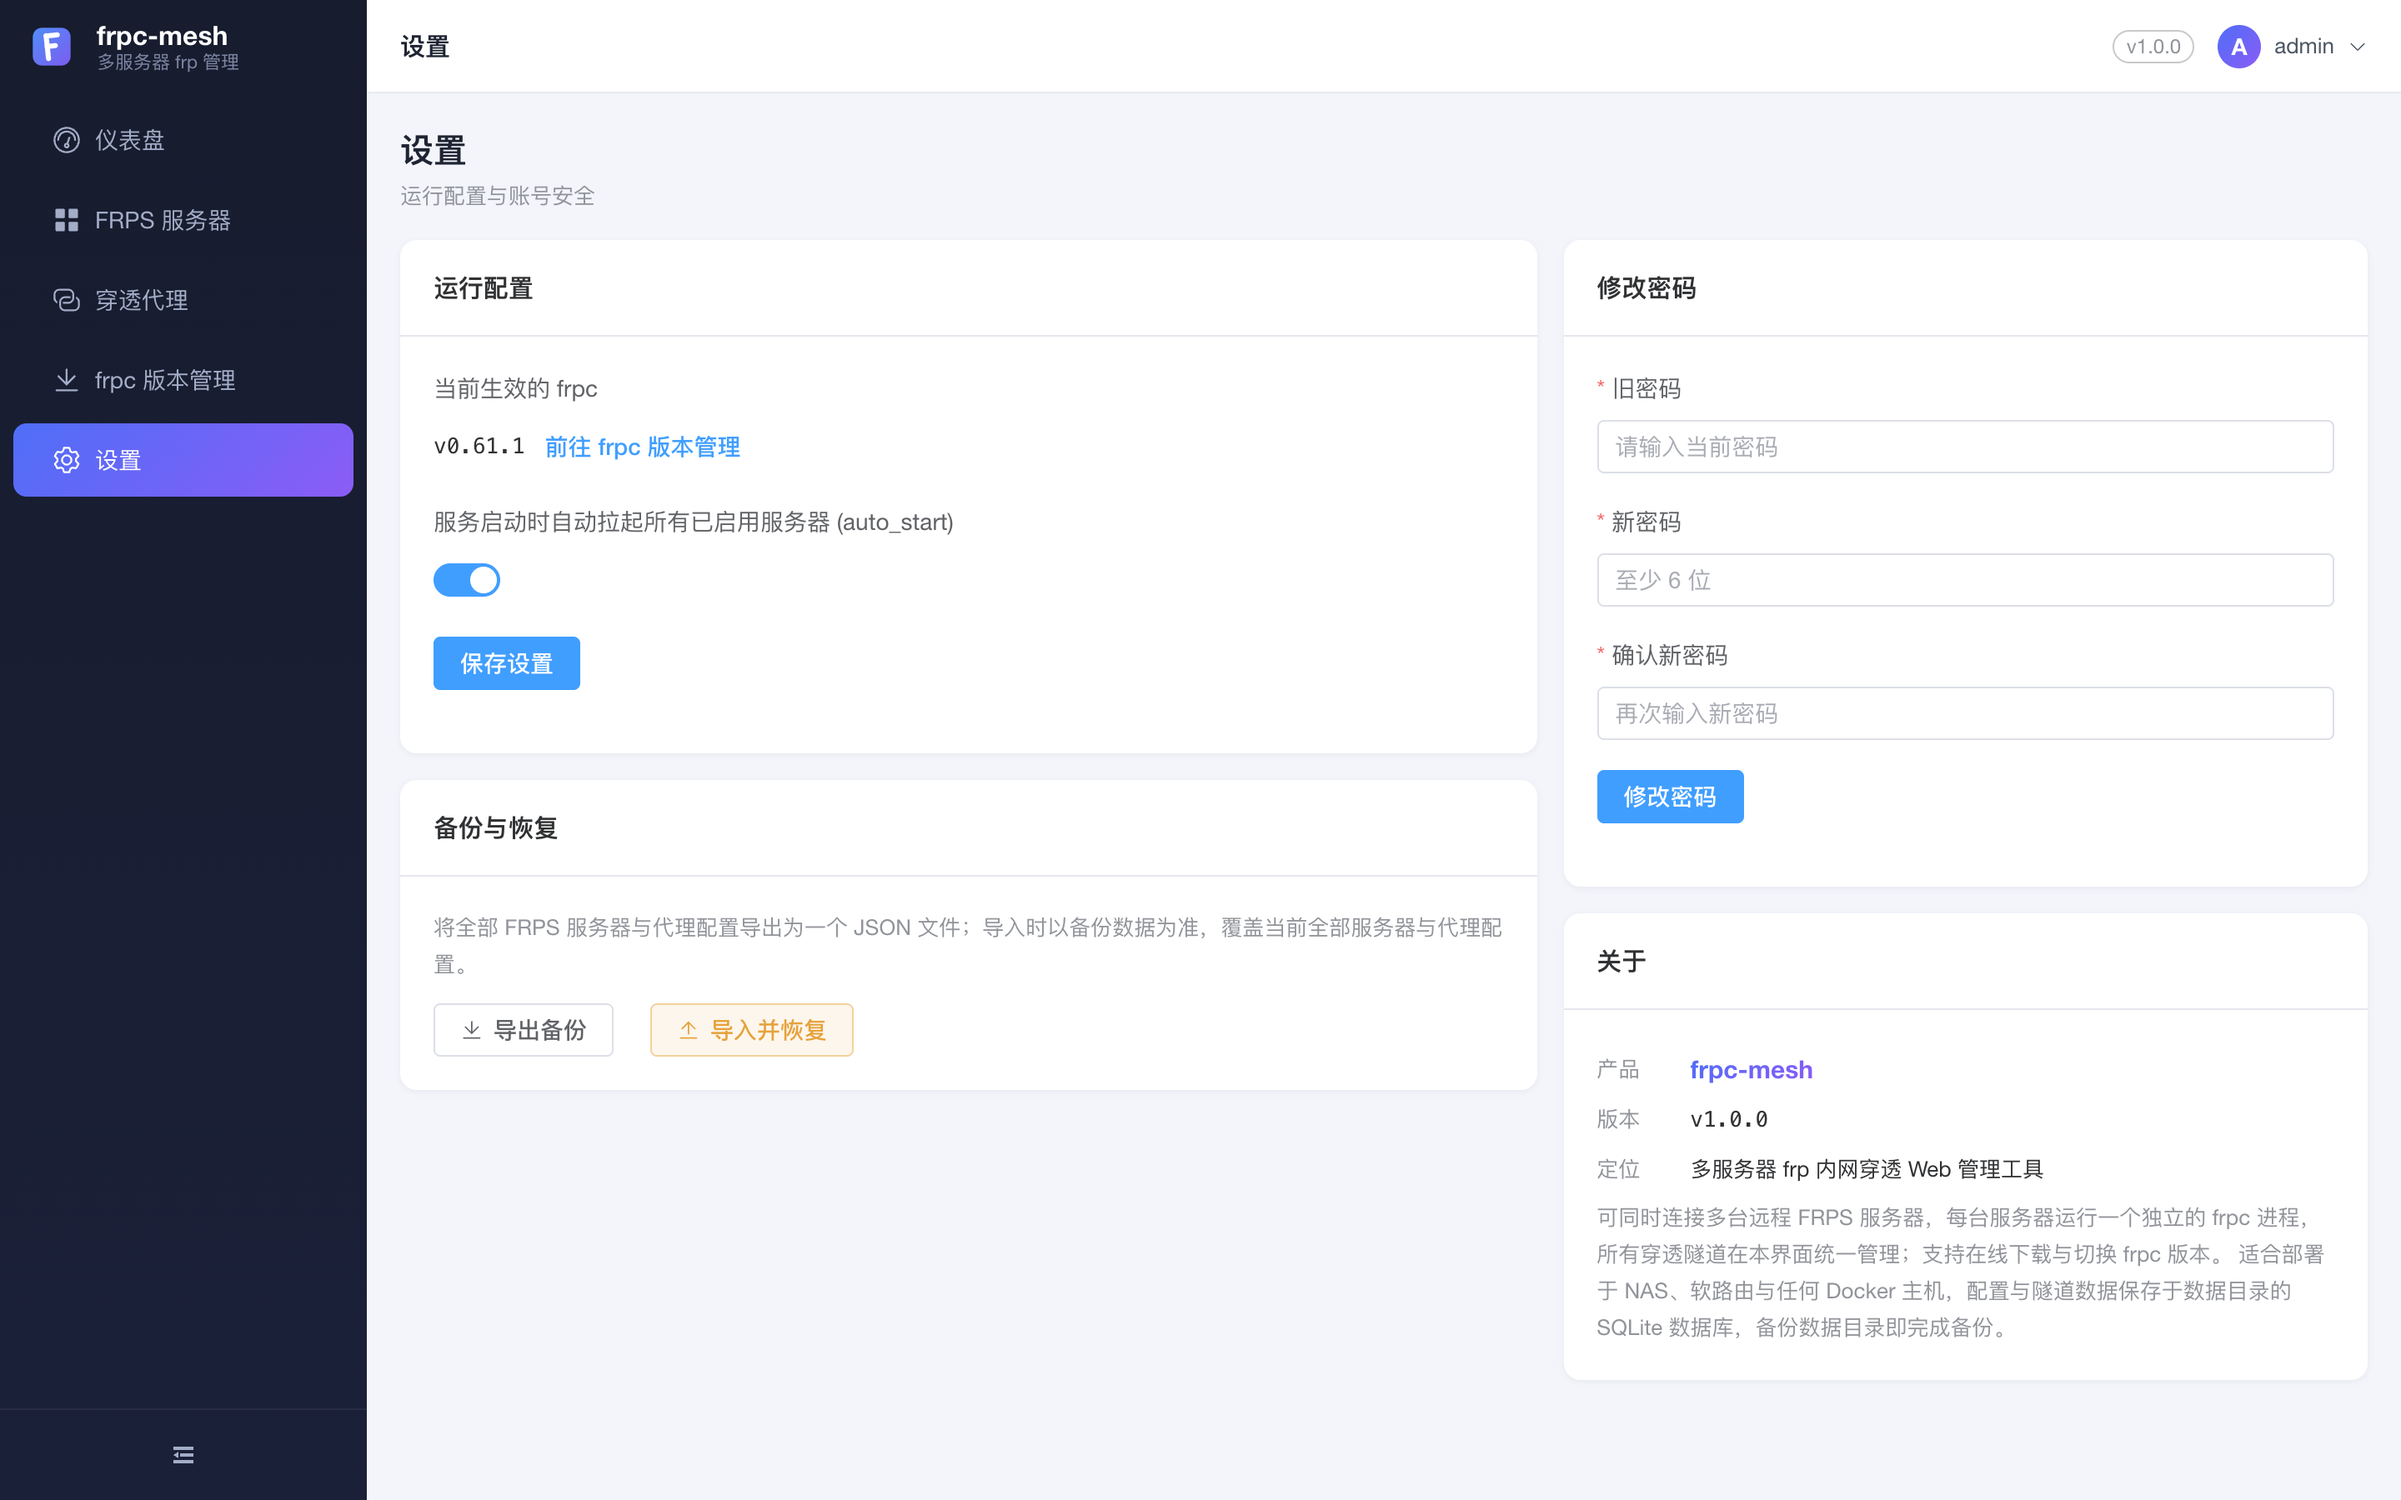
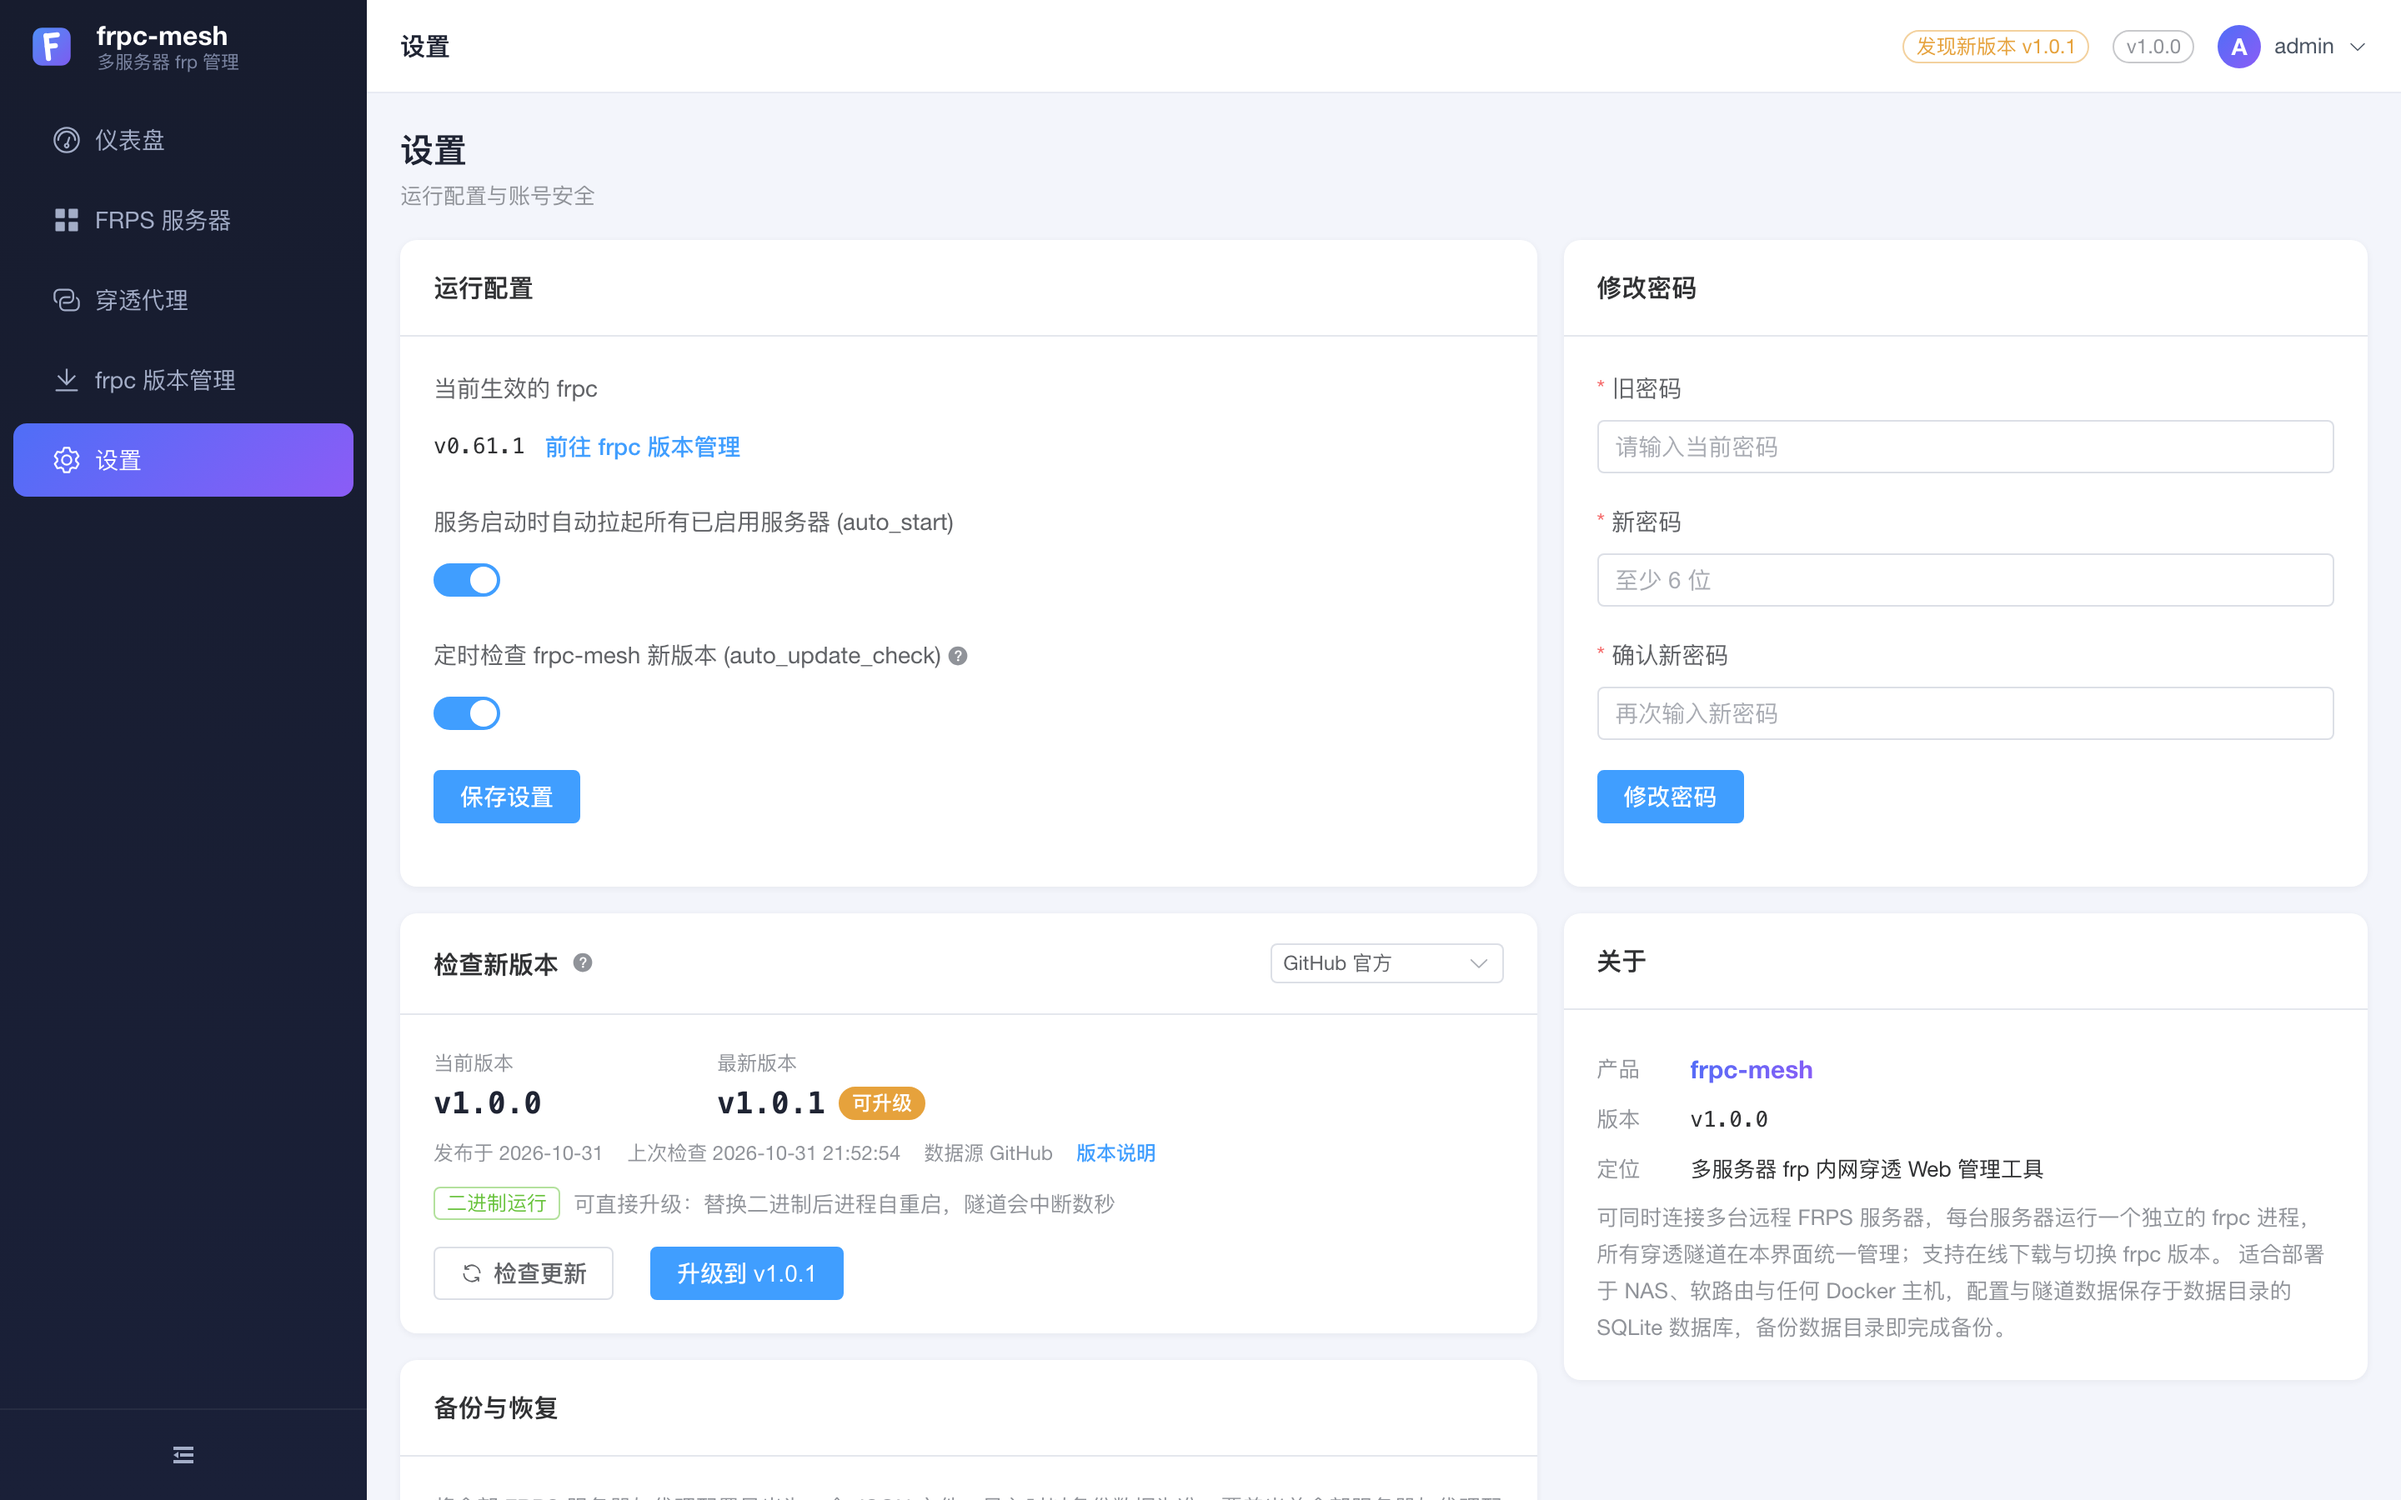
docs: 设置页截图补上版本检查与一键升级，README 说明同步

diff --git a/README.md b/README.md
@@ -72,7 +72,7 @@ The point of "mesh": each frps entry (home, office, cloud VPS, …) gets its own
 **frpc versions** — fetch Releases, download, switch
 <img src="docs/screenshots/versions.png" width="900" alt="frpc version management">
 
-**Settings** — active frpc version, start-on-boot, backup export/import, change password
+**Settings** — active frpc version, start-on-boot, frpc-mesh version check & one-click upgrade, backup export/import, change password
 <img src="docs/screenshots/settings.png" width="900" alt="Settings">
 
 </details>

diff --git a/README-CN.md b/README-CN.md
@@ -70,7 +70,7 @@
 **frpc 版本管理** — 在线拉取 Releases、下载并一键切换
 <img src="docs/screenshots/versions.png" width="900" alt="frpc 版本管理">
 
-**设置** — frpc 生效版本、开机自启、备份导出导入、修改密码
+**设置** — frpc 生效版本、开机自启、frpc-mesh 版本检查与一键升级、备份导出导入、修改密码
 <img src="docs/screenshots/settings.png" width="900" alt="设置">
 
 </details>
